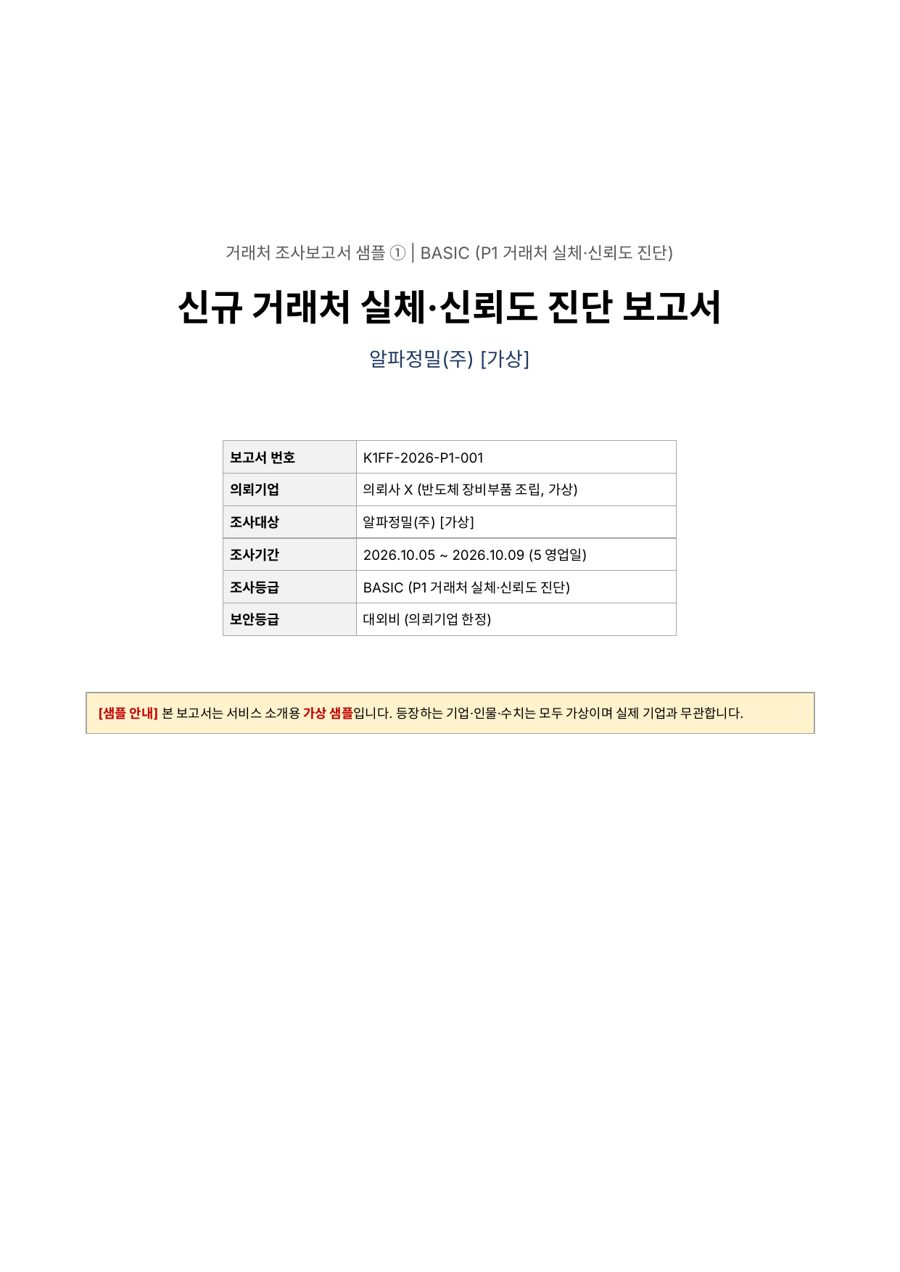
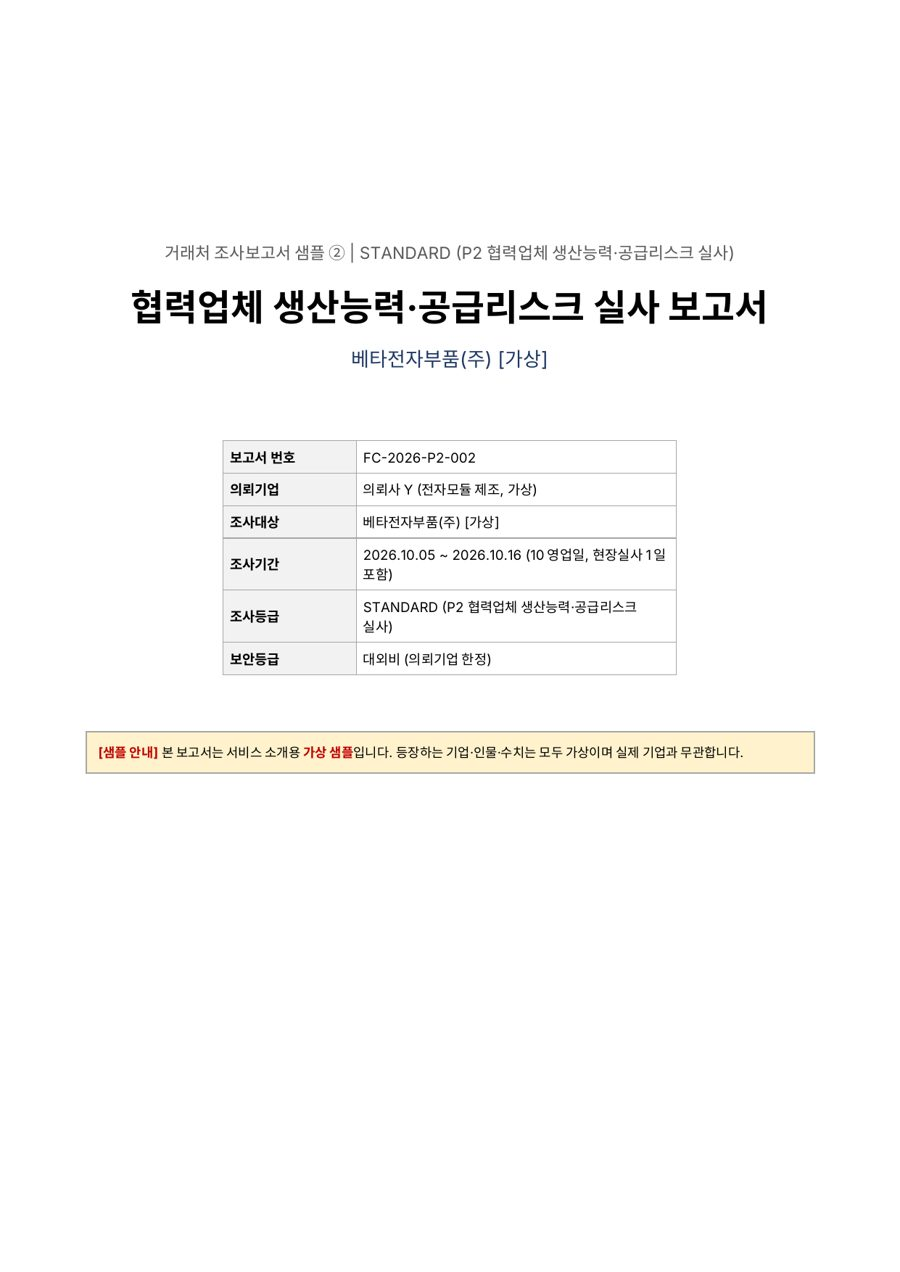
Add files via upload

Changed region(s): [[0.0933, 0.3373, 0.9333, 0.6132], [0.1556, 0.184, 0.8711, 0.3066]]

diff --git a/index.html b/index.html
@@ -40,15 +40,15 @@
     <div class="reveal d2">
       <div class="rcard" aria-label="보고서 결론 예시">
         <span class="tag">보고서 결론 예시</span>
-        <div class="rc-h"><b>거래처 실체진단 · 종합 결론</b><span>K1FF-P1</span></div>
-        <div class="rc-grade"><div class="g">B</div><p>종합 위험등급<b>조건부 거래 가능</b></p></div>
+        <div class="rc-h"><b>협력업체 생산능력 실사 · 종합 결론</b><span>K1FF-P2</span></div>
+        <div class="rc-grade"><div class="g">C</div><p>종합 위험등급<b>거래 유지 + 공급 이원화</b></p></div>
         <div class="rc-bars">
           <div>기업실체<i style="--w:88%"></i><em>A</em></div>
-          <div>경영진<i class="warn" style="--w:52%"></i><em>C</em></div>
-          <div>생산능력<i style="--w:72%"></i><em>B</em></div>
-          <div>거래관계<i style="--w:70%"></i><em>B</em></div>
+          <div>생산능력<i class="warn" style="--w:30%"></i><em>D</em></div>
+          <div>품질체계<i style="--w:70%"></i><em>B</em></div>
+          <div>사업지속성<i class="warn" style="--w:50%"></i><em>C</em></div>
         </div>
-        <div class="rc-note"><b>권고</b> 대표자 변경 사유 확인 · 선급금 비율 축소 후 거래 개시</div>
+        <div class="rc-note"><b>권고</b> 대체 협력사 1곳 승인 착수 · 안전재고 2주분 운영</div>
       </div>
     </div>
   </div>
@@ -65,10 +65,10 @@
   <div class="wrap">
     <div class="section-head center"><p class="eyebrow">Check Point</p><h2>중요한 결정 전, 확인하셨습니까?</h2><p class="lead">서류와 소개만으로 내린 결정이 공급 차질과 손실로 돌아오는 순간이 있습니다.</p></div>
     <div class="grid-4">
-      <a class="pcard reveal" href="services.html#p1"><img src="assets/img/q-partner.jpg" alt="사무실 건물" loading="lazy"><div class="ov"><span class="k">PARTNER</span><p>이 거래처,<b>실체가 있는가?</b></p></div></a>
-      <a class="pcard reveal d1" href="services.html#p2"><img src="assets/img/q-supplier.jpg" alt="제조 조립라인" loading="lazy"><div class="ov"><span class="k">SUPPLIER</span><p>협력업체,<b>약속한 만큼 만들 수 있는가?</b></p></div></a>
-      <a class="pcard reveal d2" href="services.html#p3"><img src="assets/img/q-overseas.jpg" alt="해외 산업단지 항공사진" loading="lazy"><div class="ov"><span class="k">OVERSEAS</span><p>해외 협력사,<b>현지 실체를 확인했는가?</b></p></div></a>
-      <a class="pcard reveal d3" href="services.html#p4"><img src="assets/img/q-supplychain.jpg" alt="물류창고" loading="lazy"><div class="ov"><span class="k">SUPPLY CHAIN</span><p>우리 공급망,<b>손실 징후는 없는가?</b></p></div></a>
+      <a class="pcard reveal" href="services.html#p1"><img src="assets/img/q-supplychain.jpg" alt="물류창고" loading="lazy"><div class="ov"><span class="k">P1 · SUPPLY CHAIN</span><p>우리 공급망,<b>손실 징후는 없는가?</b></p></div></a>
+      <a class="pcard reveal d1" href="services.html#p2"><img src="assets/img/q-supplier.jpg" alt="제조 조립라인" loading="lazy"><div class="ov"><span class="k">P2 · SUPPLIER</span><p>협력업체,<b>약속한 만큼 만들 수 있는가?</b></p></div></a>
+      <a class="pcard reveal d2" href="services.html#p3"><img src="assets/img/q-overseas.jpg" alt="해외 산업단지 항공사진" loading="lazy"><div class="ov"><span class="k">P3 · OVERSEAS</span><p>해외 협력사,<b>현지 실체를 확인했는가?</b></p></div></a>
+      <a class="pcard reveal d3" href="services.html#p4"><img src="assets/img/q-partner.jpg" alt="사무실 건물" loading="lazy"><div class="ov"><span class="k">P4 · PARTNER</span><p>이 거래처,<b>실체가 있는가?</b></p></div></a>
     </div>
   </div>
 </section>
@@ -103,10 +103,10 @@
   <div class="wrap">
     <div class="section-head"><p class="eyebrow">Services</p><h2>여섯 가지 서비스로 공급망의 사실을 확인합니다</h2><p class="lead">조사 범위와 등급(BASIC · STANDARD · PREMIUM)에 따라 맞춤 견적을 드립니다.</p></div>
     <div class="grid-3">
-      <a class="scard reveal d0" href="services.html#p1"><div class="im"><img src="assets/img/svc-p1.jpg" alt="거래처 실체진단" loading="lazy"><span class="pn">P1</span></div><div class="bd"><h3>거래처 실체진단</h3><p class="q">이 회사와 거래해도 되는가?</p><span class="go">자세히 보기 →</span></div></a>
+      <a class="scard reveal d0" href="services.html#p1"><div class="im"><img src="assets/img/svc-p4.jpg" alt="공급망 프로세스 사실조사" loading="lazy"><span class="pn">P1</span></div><div class="bd"><h3>공급망 프로세스 사실조사</h3><p class="q">내부에서 실제로 무슨 일이?</p><span class="go">자세히 보기 →</span></div></a>
       <a class="scard reveal d1" href="services.html#p2"><div class="im"><img src="assets/img/svc-p2.jpg" alt="협력업체 생산능력 실사" loading="lazy"><span class="pn">P2</span></div><div class="bd"><h3>협력업체 생산능력 실사</h3><p class="q">약속한 만큼 만들 수 있는가?</p><span class="go">자세히 보기 →</span></div></a>
       <a class="scard reveal d2" href="services.html#p3"><div class="im"><img src="assets/img/svc-p3.jpg" alt="해외 협력사 실사" loading="lazy"><span class="pn">P3</span></div><div class="bd"><h3>해외 협력사 실사</h3><p class="q">현지 회사는 실체가 있는가?</p><span class="go">자세히 보기 →</span></div></a>
-      <a class="scard reveal d0" href="services.html#p4"><div class="im"><img src="assets/img/svc-p4.jpg" alt="공급망 프로세스 사실조사" loading="lazy"><span class="pn">P4</span></div><div class="bd"><h3>공급망 프로세스 사실조사</h3><p class="q">내부에서 실제로 무슨 일이?</p><span class="go">자세히 보기 →</span></div></a>
+      <a class="scard reveal d0" href="services.html#p4"><div class="im"><img src="assets/img/svc-p1.jpg" alt="거래처 실체진단" loading="lazy"><span class="pn">P4</span></div><div class="bd"><h3>거래처 실체진단</h3><p class="q">이 회사와 거래해도 되는가?</p><span class="go">자세히 보기 →</span></div></a>
       <a class="scard reveal d1" href="services.html#p5"><div class="im"><img src="assets/img/svc-p5.jpg" alt="산업보안 사실관계 분석" loading="lazy"><span class="pn">P5</span></div><div class="bd"><h3>산업보안 사실관계 분석</h3><p class="q">기술자료가 실제로 유출됐는가?</p><span class="go">자세히 보기 →</span></div></a>
       <a class="scard reveal d2" href="services.html#p6"><div class="im"><img src="assets/img/svc-p6.jpg" alt="협력사 리스크 정기 모니터링" loading="lazy"><span class="pn">P6</span></div><div class="bd"><h3>협력사 리스크 정기 모니터링</h3><p class="q">이상징후를 바로 알 수 있는가?</p><span class="go">자세히 보기 →</span></div></a>
     </div>
@@ -118,7 +118,7 @@
     <div class="papers reveal">
       <img class="p1" src="assets/img/report-p1.jpg" alt="샘플 보고서 표지" width="900" height="1272">
       <img class="p2" src="assets/img/report-p2.jpg" alt="샘플 보고서 종합 결론 페이지" width="900" height="1272">
-      <div class="stamp"><b>SAMPLE</b> 가상 기업으로 작성한 예시 보고서</div>
+      <div class="stamp"><b>SAMPLE</b> 가상 기업으로 작성한 예시 보고서 (P2)</div>
     </div>
     <div class="reveal d1">
       <p class="eyebrow">Report</p>

diff --git a/services.html b/services.html
@@ -30,11 +30,11 @@
 </div></section>
 <section style="padding-top:40px"><div class="wrap">
   <div class="zz" id="p1">
-    <div class="zz-img reveal"><img src="assets/img/svc-p1.jpg" alt="거래처 실체진단" loading="lazy"><span class="pn">P1</span></div>
-    <div class="reveal d1"><h2>거래처 실체진단</h2><p class="q">이 회사와 거래해도 되는가?</p>
-      <div class="when"><b>이럴 때</b>신규 거래처 등록, 선급금 지급, 대규모 계약 전</div>
-      <ul><li>사업자·법인 실체, 사업장 실재 여부</li><li>경영진·관계회사 구조</li><li>공개 법률(소송·회생) 정보</li><li>거래 이력, 시장 평판, 위험징후</li></ul>
-      <p class="dur"><b>소요 기간</b>약 5영업일</p></div>
+    <div class="zz-img reveal"><img src="assets/img/svc-p4.jpg" alt="공급망 프로세스 사실조사" loading="lazy"><span class="pn">P1</span></div>
+    <div class="reveal d1"><h2>공급망 프로세스 사실조사</h2><p class="q">내부에서 실제로 무슨 일이?</p>
+      <div class="when"><b>이럴 때</b>단가 이상 상승, 특정 업체 편중, 기준정보 오류 의심 시</div>
+      <ul><li>견적→발주→입고→품질→지급 흐름 분석</li><li>의뢰사가 제공한 ERP/MES 데이터 분석</li><li>이상 패턴과 원인 가설 검증</li><li>내부통제 개선 권고</li></ul>
+      <p class="dur"><b>소요 기간</b>범위별 협의</p></div>
   </div>
   <div class="zz rev" id="p2">
     <div class="zz-img reveal"><img src="assets/img/svc-p2.jpg" alt="협력업체 생산능력 실사" loading="lazy"><span class="pn">P2</span></div>
@@ -51,11 +51,11 @@
       <p class="dur"><b>소요 기간</b>약 15영업일 (현지 방문 포함)</p></div>
   </div>
   <div class="zz rev" id="p4">
-    <div class="zz-img reveal"><img src="assets/img/svc-p4.jpg" alt="공급망 프로세스 사실조사" loading="lazy"><span class="pn">P4</span></div>
-    <div class="reveal d1"><h2>공급망 프로세스 사실조사</h2><p class="q">내부에서 실제로 무슨 일이?</p>
-      <div class="when"><b>이럴 때</b>단가 이상 상승, 특정 업체 편중, 기준정보 오류 의심 시</div>
-      <ul><li>견적→발주→입고→품질→지급 흐름 분석</li><li>의뢰사가 제공한 ERP/MES 데이터 분석</li><li>이상 패턴과 원인 가설 검증</li><li>내부통제 개선 권고</li></ul>
-      <p class="dur"><b>소요 기간</b>범위별 협의</p></div>
+    <div class="zz-img reveal"><img src="assets/img/svc-p1.jpg" alt="거래처 실체진단" loading="lazy"><span class="pn">P4</span></div>
+    <div class="reveal d1"><h2>거래처 실체진단</h2><p class="q">이 회사와 거래해도 되는가?</p>
+      <div class="when"><b>이럴 때</b>신규 거래처 등록, 선급금 지급, 대규모 계약 전</div>
+      <ul><li>사업자·법인 실체, 사업장 실재 여부</li><li>경영진·관계회사 구조</li><li>공개 법률(소송·회생) 정보</li><li>거래 이력, 시장 평판, 위험징후</li></ul>
+      <p class="dur"><b>소요 기간</b>약 5영업일</p></div>
   </div>
   <div class="zz" id="p5">
     <div class="zz-img reveal"><img src="assets/img/svc-p5.jpg" alt="산업보안 사실관계 분석" loading="lazy"><span class="pn">P5</span></div>
